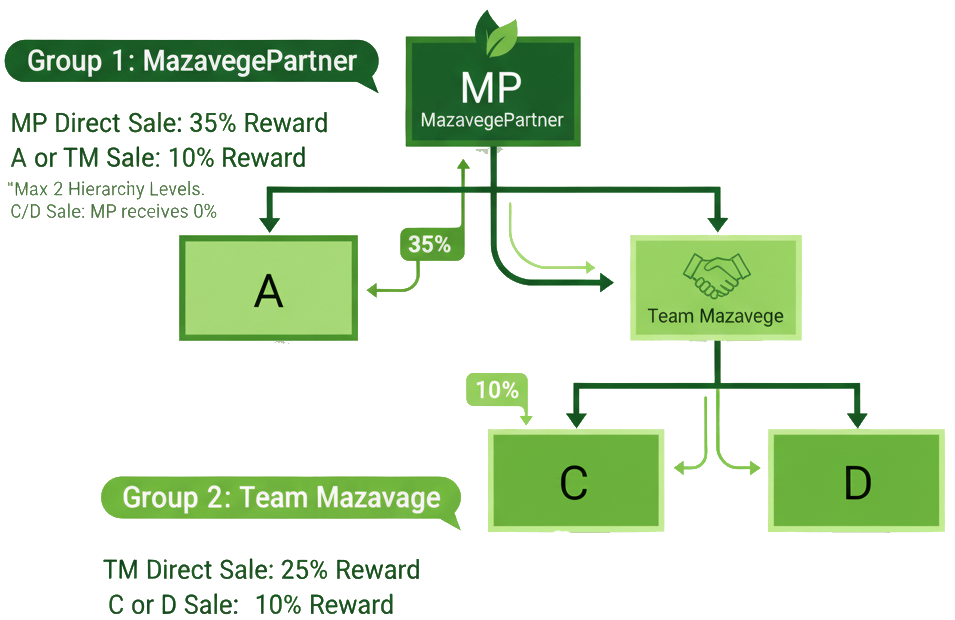
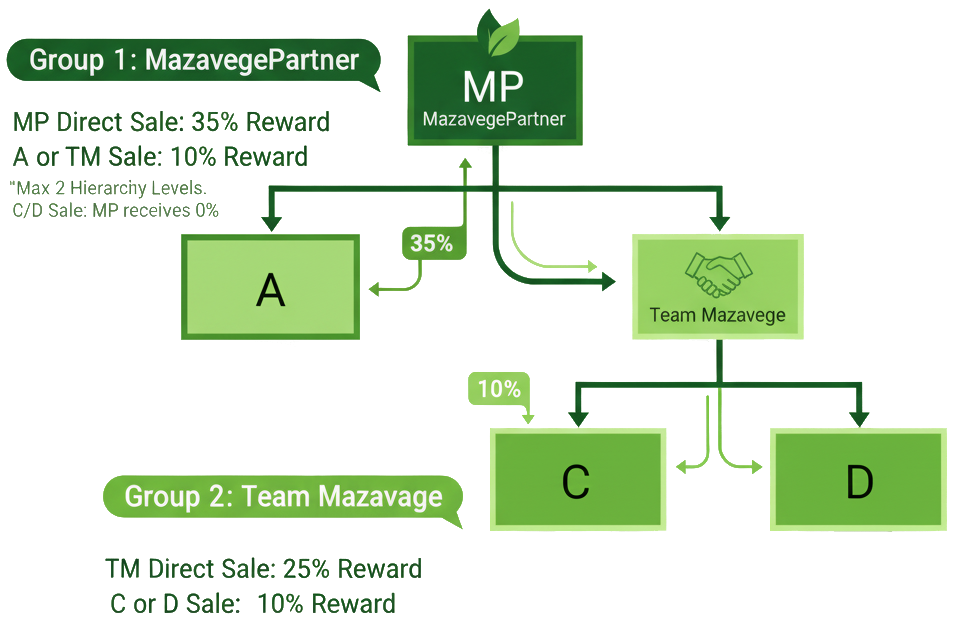
fix

diff --git a/src/components/ProductLineup.tsx b/src/components/ProductLineup.tsx
@@ -30,8 +30,8 @@ export default function ProductLineup() {
               <Image
                 src="/hyou.png"
                 alt="Hierarchy Chart"
-                width={800}
-                height={600}
+                width={600}
+                height={450}
                 className="rounded-lg shadow-xl max-w-full h-auto"
               />
             </div>
